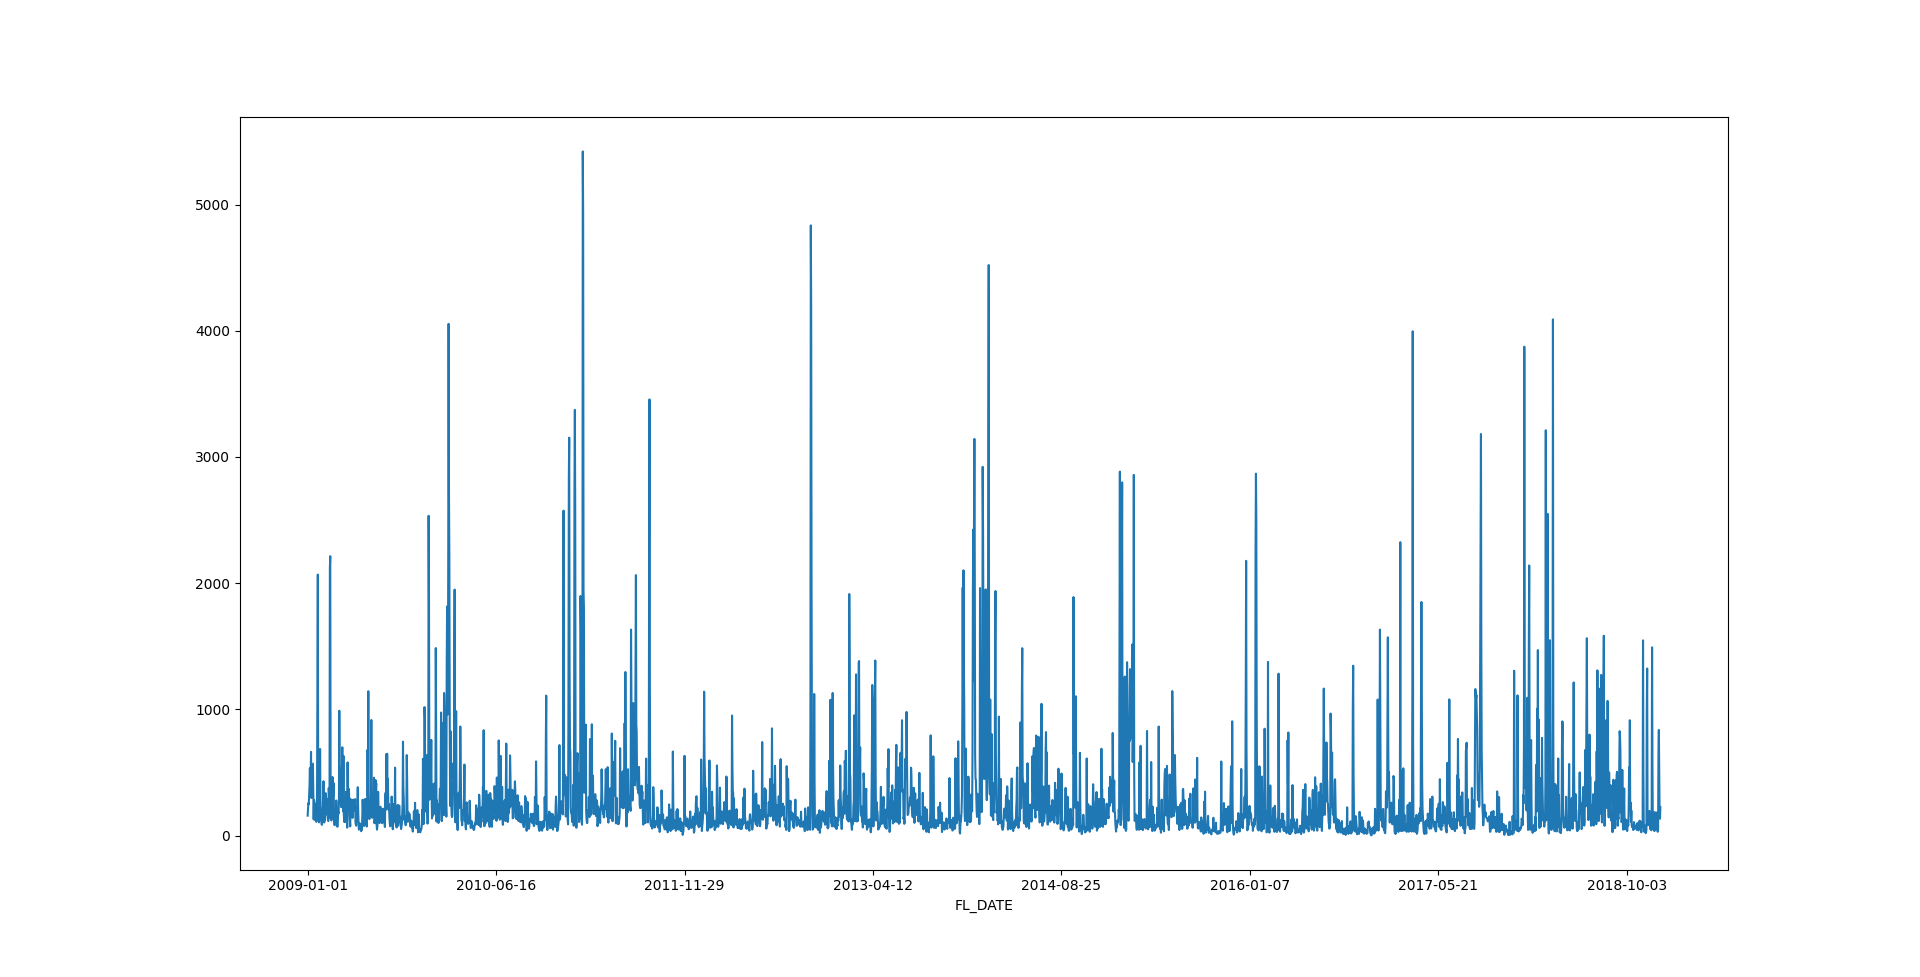
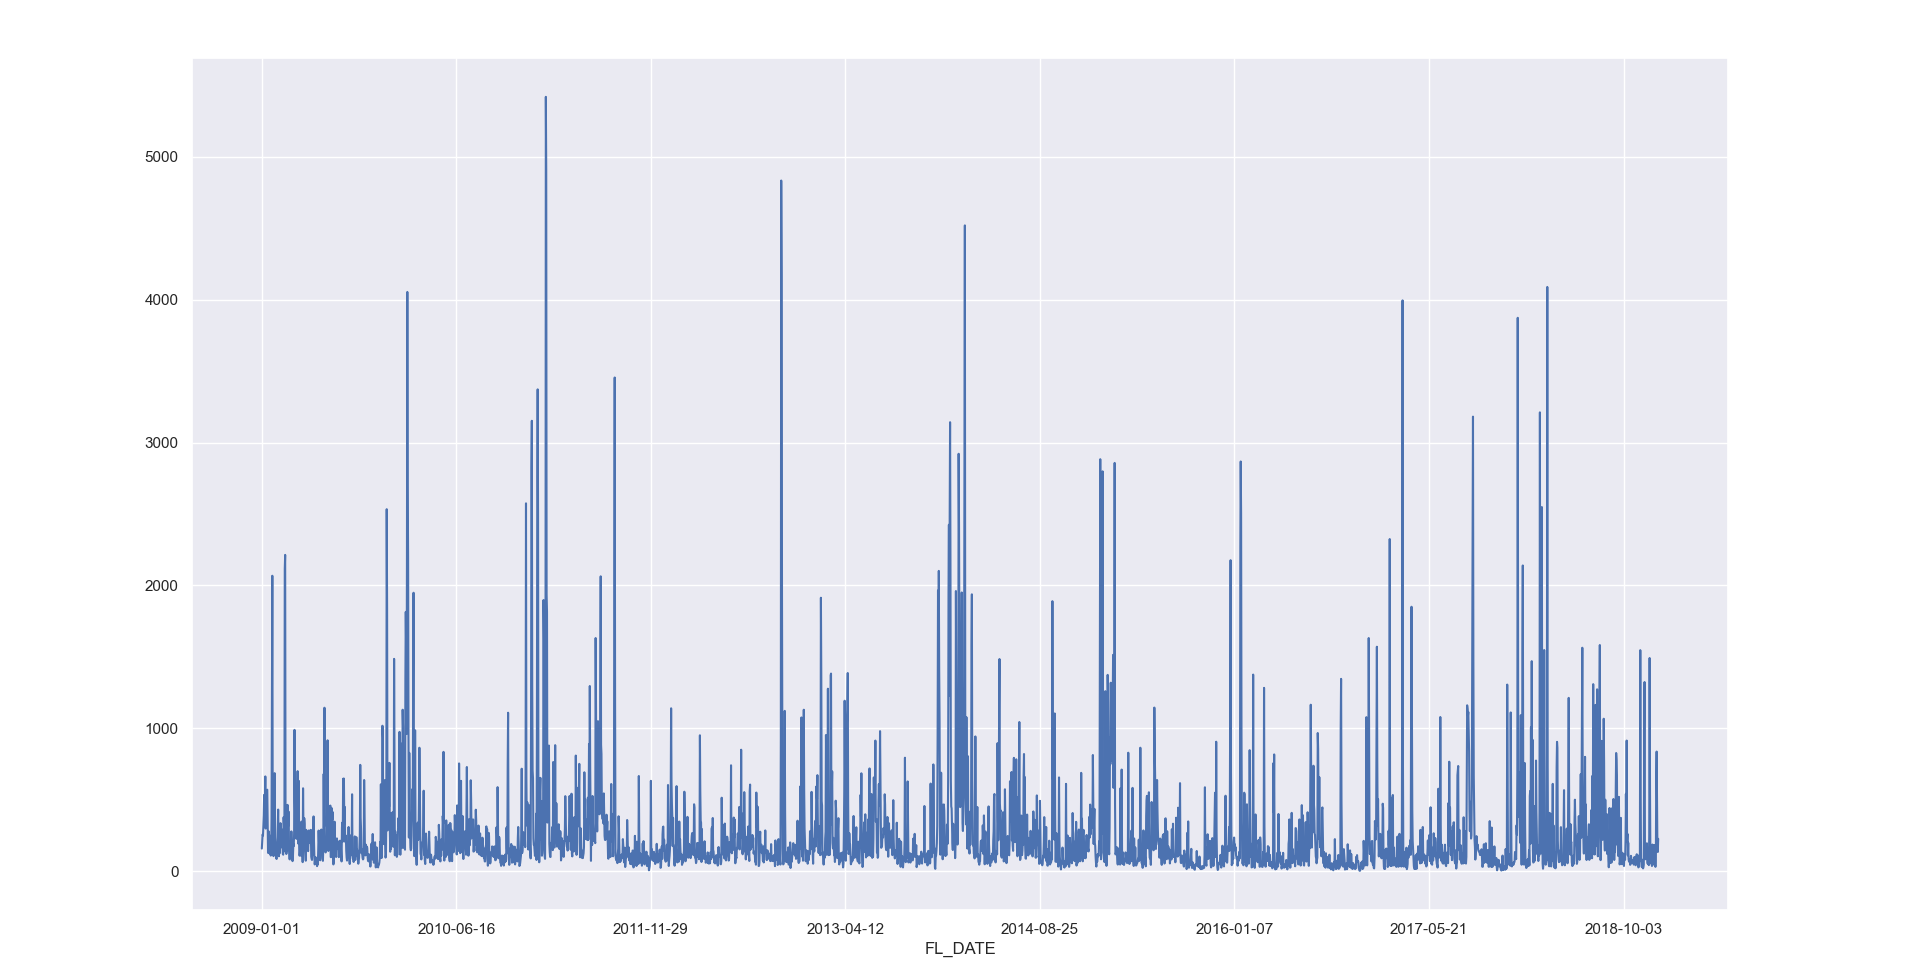
No message

diff --git a/Code/Time_series_visualization.py b/Code/Time_series_visualization.py
@@ -10,6 +10,11 @@ from IPython.display import display
 import datetime as dt
 from traitlets.traitlets import Int
 import yfinance as yf
+import seaborn as sns
+
+
+sns.set()
+
 
 #--------------------#--------------------#--------------------#--------------------#--------------------#--------------------#--------------------#--------------------#--------------------#
 '''
@@ -111,5 +116,5 @@ def plot_Collatz(x0: Int, diff: Int, auc: Int):
 
 #--------------------#--------------------#--------------------#--------------------#--------------------#--------------------#--------------------#--------------------#--------------------#
 
-plot_stock_prices(False, True)
+plot_flight_database(False, False)
 

diff --git a/Code/LSTM_continuous.py b/Code/LSTM_continuous.py
@@ -29,7 +29,7 @@ data = dataframe['Close'].to_list()
 
 print(data)
 
-len_lags = 2 # tamanho da nossa janela
+len_lags = 3 # tamanho da nossa janela
 
 X_train, y_train = split_sequence(data, len_lags)
 
